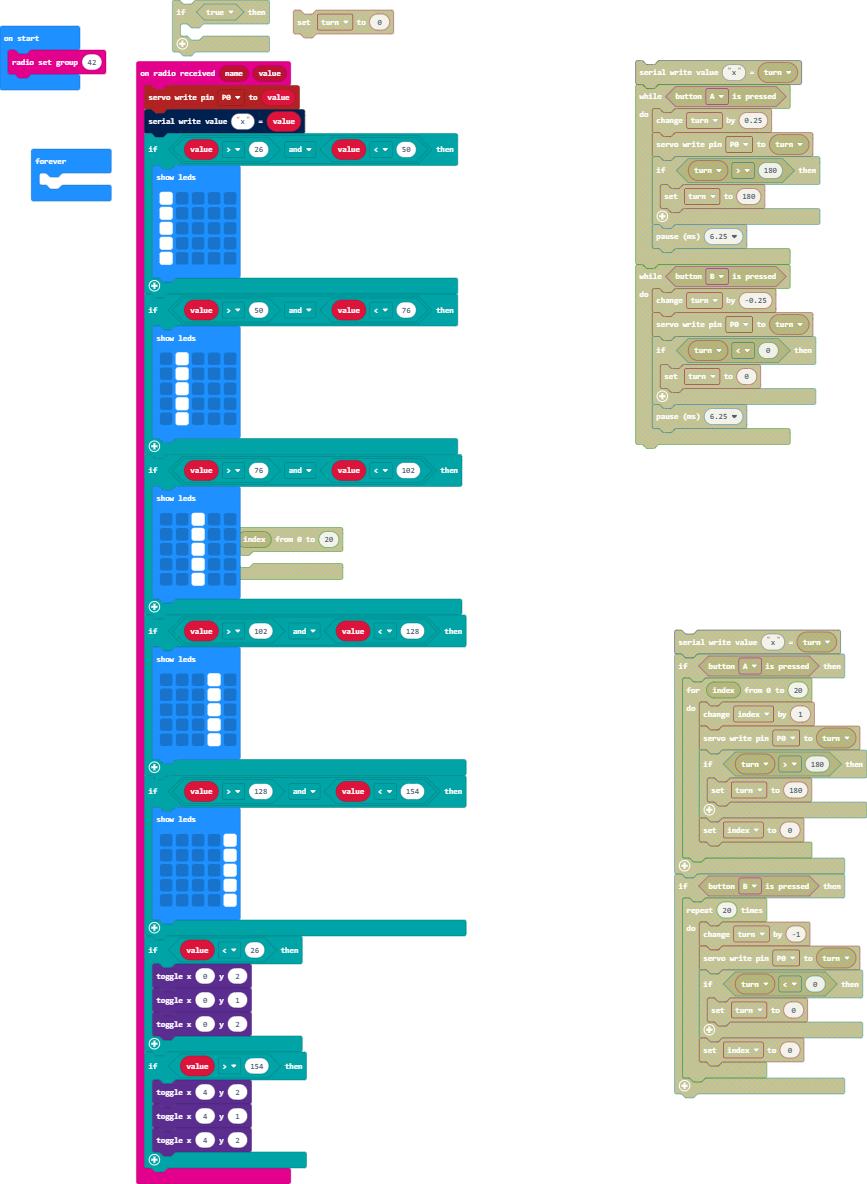
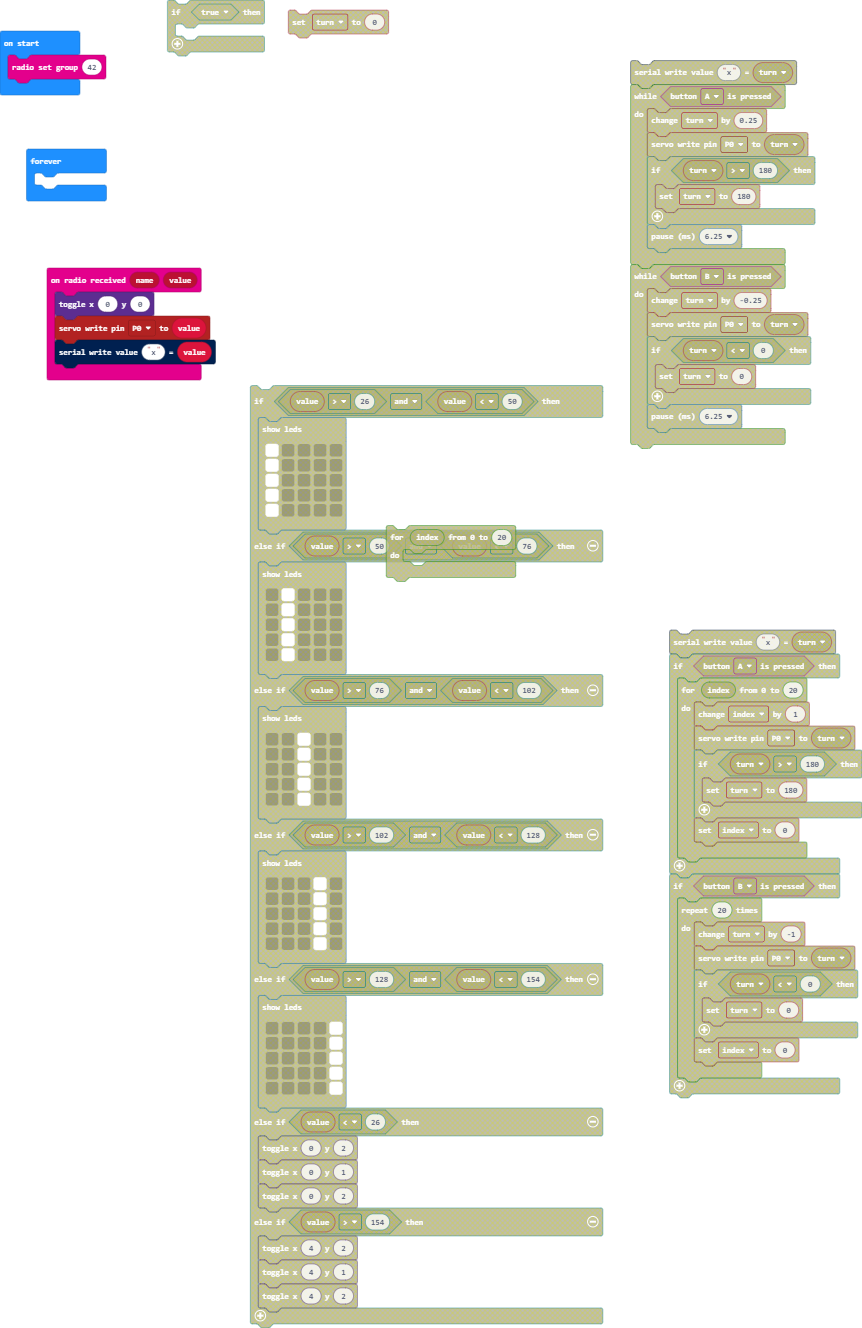
Update main.blocks, main.ts, main.py

diff --git a/main.ts b/main.ts
@@ -1,61 +1,7 @@
 radio.onReceivedValue(function (name, value) {
+    led.toggle(0, 0)
     pins.servoWritePin(AnalogPin.P0, value)
     serial.writeValue("x", value)
-    if (value > 26 && value < 50) {
-        basic.showLeds(`
-            # . . . .
-            # . . . .
-            # . . . .
-            # . . . .
-            # . . . .
-            `)
-    }
-    if (value > 50 && value < 76) {
-        basic.showLeds(`
-            . # . . .
-            . # . . .
-            . # . . .
-            . # . . .
-            . # . . .
-            `)
-    }
-    if (value > 76 && value < 102) {
-        basic.showLeds(`
-            . . # . .
-            . . # . .
-            . . # . .
-            . . # . .
-            . . # . .
-            `)
-    }
-    if (value > 102 && value < 128) {
-        basic.showLeds(`
-            . . . # .
-            . . . # .
-            . . . # .
-            . . . # .
-            . . . # .
-            `)
-    }
-    if (value > 128 && value < 154) {
-        basic.showLeds(`
-            . . . . #
-            . . . . #
-            . . . . #
-            . . . . #
-            . . . . #
-            `)
-    }
-    if (value < 26) {
-        led.toggle(0, 2)
-        led.toggle(0, 1)
-        led.toggle(0, 2)
-    }
-    if (value > 154) {
-        led.toggle(4, 2)
-        led.toggle(4, 1)
-        led.toggle(4, 2)
-    }
 })
 radio.setGroup(42)
 basic.forever(function () {

diff --git a/main.py b/main.py
@@ -1,22 +1,12 @@
-def on_button_pressed_a():
-    global turn
-    turn += 20
-    pins.servo_write_pin(AnalogPin.P0, turn)
-    if turn > 180:
-        turn = 180
-input.on_button_pressed(Button.A, on_button_pressed_a)
+def on_received_value(name, value):
+    led.toggle(0, 0)
+    pins.servo_write_pin(AnalogPin.P0, value)
+    serial.write_value("x", value)
+radio.on_received_value(on_received_value)
 
-def on_button_pressed_b():
-    global turn
-    turn += -20
-    pins.servo_write_pin(AnalogPin.P0, turn)
-    if turn < 0:
-        turn = 0
-input.on_button_pressed(Button.B, on_button_pressed_b)
-
-turn = 0
-turn = 0
+radio.set_group(42)
 
 def on_forever():
-    serial.write_value("x", turn)
+    pass
 basic.forever(on_forever)
+
